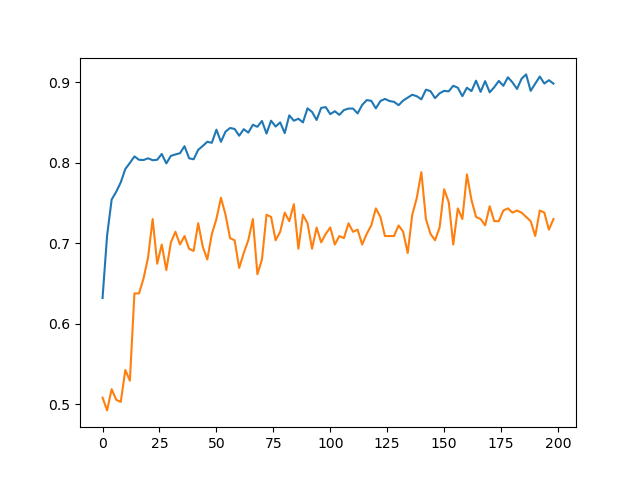
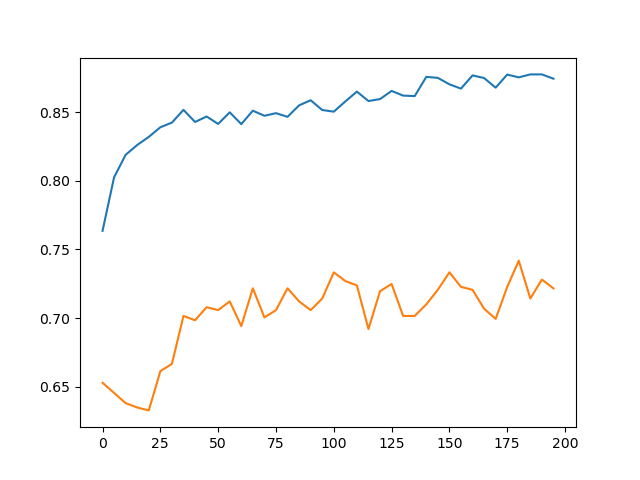
update

diff --git a/source/tf2/masif_ligand/makeHistoryPlot.py b/source/tf2/masif_ligand/makeHistoryPlot.py
@@ -1,8 +1,12 @@
 import matplotlib.pyplot as plt
 import numpy as np
 import seaborn as sns
+import sys
 
-factor = 2
+if len(sys.argv) > 1:
+	factor = int(sys.argv[1])
+else:
+	factor = 2
 
 acc = np.loadtxt('accuracy.txt')
 val_acc = np.loadtxt('val_accuracy.txt')
@@ -10,7 +14,7 @@ val_acc = np.loadtxt('val_accuracy.txt')
 arr = np.stack([acc, val_acc])
 plot_arr = np.reshape(arr, [arr.shape[0], factor, -1]).mean(axis=1)
 
-rg = range(0, len(acc), 2)
+rg = range(0, len(acc), factor)
 sns.lineplot(x=rg, y=plot_arr[0])
 sns.lineplot(x=rg, y=plot_arr[1])
 
